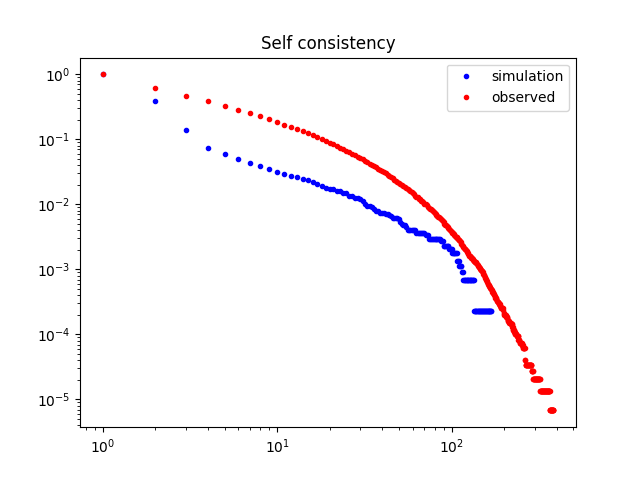
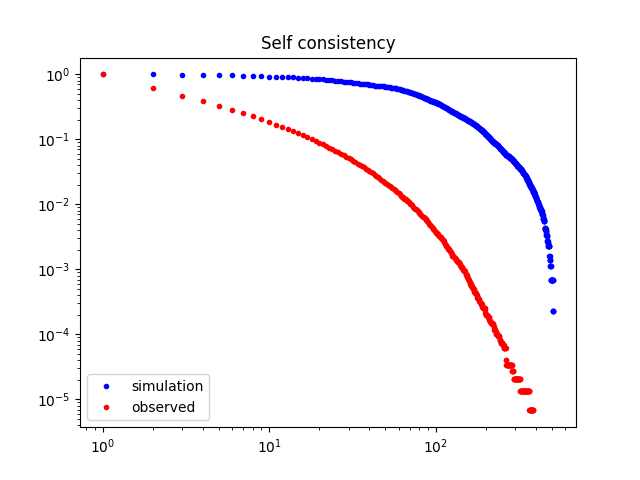
Improvements to self consistency code

diff --git a/self_consistency.py b/self_consistency.py
@@ -27,7 +27,7 @@ def random_from_residue(residue):
     return len(dist) + residue["min_bin"]
 
 
-def init_csd_from_random_null(size = 256, ensembles = 64):
+def init_csd_from_random_null(size = 256, ensembles = 1):
     cluster_sizes = []
 
     for _ in range(ensembles):
@@ -47,12 +47,12 @@ def init_csd_from_random_null(size = 256, ensembles = 64):
 
 
 def get_icdf(clusters):
-    biggest_cluster = max(clusters)
+    biggest_cluster = int(max(clusters))
     cluster_sizes = range(1, biggest_cluster + 1)
 
     frequencies = [0 for _ in range(biggest_cluster)]
     for cluster in clusters:
-        frequencies[cluster - 1] += 1
+        frequencies[int(cluster) - 1] += 1
 
     cluster_icdf = zeros(len(cluster_sizes), dtype=int)
 
@@ -105,6 +105,14 @@ def self_consistency(simulation_name, parameters, data_path):
     plt.savefig(data_path + file_root + "sde_fit.png")
     plt.show()
 
+    # load observed data
+    file_name = data_path + file_root + "csd.txt"
+    data = transpose(loadtxt(file_name, dtype=int))
+    cluster_sizes, frequencies = data[0], data[1]
+    observed_clusters = []
+    for cluster, frequency in zip(cluster_sizes, frequencies):
+        observed_clusters.extend([cluster for _ in range(frequency)])
+
     # read residues
     data = open(data_path + file_root + "residues.txt", "r").read().split("\n")
     residues = {}
@@ -126,12 +134,12 @@ def self_consistency(simulation_name, parameters, data_path):
         residues[info["cluster_size"]] = info
 
     # initialize SDE simulation
-    clusters_pool = init_csd_from_random_null()
+    clusters_pool = init_csd_from_random_null(size=256, ensembles=1)
     samples = clusters_pool.copy()
-
-    simul_time = 100
+    simul_time = 10
     dt = 0.01
     sqrt_dt = sqrt(dt)
+    num_underflow, num_overflow = 0, 0
     num_steps = int(simul_time / dt)
 
     f = lambda x: a_fit * sqrt(x) + b_fit * x
@@ -142,39 +150,32 @@ def self_consistency(simulation_name, parameters, data_path):
         new_pool = []
 
         for cluster in clusters_pool:
-            if cluster in residues:
-                noise = random_from_residue(residues[cluster])
+            if int(cluster) in residues:
+                noise = random_from_residue(residues[int(cluster)])
             else:
-                noise = random_from_residue(residues[max_info])
-                
-            updated_cluster = f(cluster) * dt + g(cluster) * sqrt_dt + noise
+                num_overflow += 1
+                cluster = choice(samples)
+
+            updated_cluster = cluster + f(cluster) * dt + g(cluster) * sqrt_dt * noise
 
             if updated_cluster < 1:
                 updated_cluster = choice(samples)
-            else:
-                updated_cluster = int(updated_cluster)
+                num_underflow += 1
 
             new_pool.append(updated_cluster)
 
         clusters_pool = new_pool
 
+    print(f"num_underflow: {num_underflow}, num_overflow: {num_overflow}, clusters * time steps: {len(clusters_pool) * num_steps}")
+
     # plot simulation data
     sim_sizes, sim_icdf = get_icdf(clusters_pool)
-    plt.loglog(sim_sizes, sim_icdf, 'b.', label="simulation")
+    obs_sizes, obs_icdf = get_icdf(observed_clusters)
 
-    # load observed data
-    file_name = data_path + file_root + "csd.txt"
-    data = transpose(loadtxt(file_name, dtype=int))
-    cluster_sizes, frequencies = data[0], data[1]
-    cluster_icdf = zeros(len(cluster_sizes), dtype=int)
-
-    for i in range(len(cluster_sizes)):
-        cluster_icdf[i] = frequencies[i:].sum()
-    cluster_icdf = cluster_icdf / cluster_icdf[0]
-
-    # plot observed data
+    plt.figure()
     plt.title("Self consistency")
-    plt.loglog(cluster_sizes, cluster_icdf, 'r.', label="observed")
+    plt.loglog(sim_sizes, sim_icdf, 'b.', label="simulation")
+    plt.loglog(obs_sizes, obs_icdf, 'r.', label="observed")
     plt.legend()
     plt.savefig(data_path + file_root + "sc.png")
     plt.show()
@@ -191,9 +192,9 @@ if __name__ == '__main__':
     ]
     samples_cutoff = 100000
 
-    base_path = f"results/{simulation_name}/{dataset}/"
-
     for parameters in parameter_sets:
+        base_path = f"results/{simulation_name}/{dataset}/"
+
         if simulation_name == "tdp":
             p = str(parameters[0]).replace('.', 'p')
             q = str(parameters[1]).replace('.', 'q')
